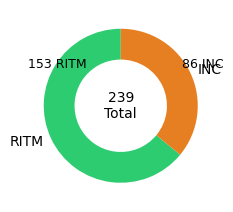
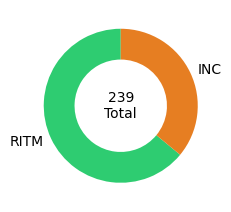
Refactor code structure for improved readability and maintainability

diff --git a/src/utils/visualization.py b/src/utils/visualization.py
@@ -19,37 +19,35 @@ def map_service_name(name):
     return mapping.get(name.upper(), name)
 
 def add_summary_slide(prs, data, overall):
+    prs.slide_width = Inches(13.33)
+    prs.slide_height = Inches(7.5)
     slide_layout = prs.slide_layouts[6]  # Blank slide
     slide = prs.slides.add_slide(slide_layout)
 
-    # Table section
-    rows = 11
-    cols = 4
-    left = Inches(0.3)
-    top = Inches(0.3)
-    width = Inches(6.2)
-    height = Inches(4.5)
+    # Table
+    table_left = Inches(5.65)
+    table_top = Inches(3.05)
+    table_width = Inches(7.47)
+    table_height = Inches(4.04)
+    table = slide.shapes.add_table(11, 4, table_left, table_top, table_width, table_height).table
 
-    table = slide.shapes.add_table(rows, cols, left, top, width, height).table
-    col_titles = ["Services", "Incidents", "Requests", "Total Tickets"]
-    for i, title in enumerate(col_titles):
-        table.cell(0, i).text = title
+    headers = ["Services", "Incidents", "Requests", "Total Tickets"]
+    for i, h in enumerate(headers):
+        table.cell(0, i).text = h
         table.cell(0, i).text_frame.paragraphs[0].font.bold = True
 
-    services_order = ["SIP", "FLOW", "AUTO", "AD", "IW", "CF", "MVM", "HV", "IFS"]
+    order = ["SIP", "FLOW", "AUTO", "AD", "IW", "CF", "MVM", "HV", "IFS"]
     total_inc = total_ritm = total_all = 0
 
-    for i, service in enumerate(services_order):
-        stats = data.get(service.upper(), {})
+    for i, s in enumerate(order):
+        stats = data.get(s.upper(), {})
         inc = stats.get("INC_count", 0)
         ritm = stats.get("RITM_count", 0)
-        total = stats.get("total_tickets", inc + ritm)
-
+        total = inc + ritm
         total_inc += inc
         total_ritm += ritm
         total_all += total
-
-        table.cell(i + 1, 0).text = map_service_name(service)
+        table.cell(i + 1, 0).text = map_service_name(s)
         table.cell(i + 1, 1).text = str(inc)
         table.cell(i + 1, 2).text = str(ritm)
         table.cell(i + 1, 3).text = str(total)
@@ -61,72 +59,53 @@ def add_summary_slide(prs, data, overall):
     for i in range(4):
         table.cell(10, i).text_frame.paragraphs[0].font.bold = True
 
-    # Donut chart - INC vs RITM
-    fig1, ax1 = plt.subplots(figsize=(2.5, 2.5))
-    wedges, texts = ax1.pie([total_ritm, total_inc], labels=['RITM', 'INC'], startangle=90,
-                             colors=['#2ecc71', '#e67e22'], wedgeprops={'width': 0.4})
-    plt.text(0, 0, f"{total_all}\nTotal", ha='center', va='center', fontsize=10)
-    plt.text(-1.2, 0.5, f"{total_ritm} RITM", fontsize=9)
-    plt.text(0.8, 0.5, f"{total_inc} INC", fontsize=9)
-    donut_path = Path("data/reports/donut_total.png")
-    plt.savefig(donut_path, bbox_inches='tight')
-    plt.close()
-    slide.shapes.add_picture(str(donut_path), Inches(7.2), Inches(0.3), height=Inches(2.8))
+    # Donuts and heatmaps
+    if Path("data/charts/urgency_heatmap_INC.png").exists():
+        slide.shapes.add_picture("data/charts/urgency_heatmap_INC.png", Inches(10.51), Inches(0.43), width=Inches(2.77), height=Inches(2.15))
 
-    # Urgency donut chart
-    urgency_counts = {}
-    for s in data.values():
-        for level, pct in s.get("urgency_distribution", {}).items():
-            urgency_counts[level] = urgency_counts.get(level, 0) + pct
+    if Path("data/charts/urgency_heatmap_RITM.png").exists():
+        slide.shapes.add_picture("data/charts/urgency_heatmap_RITM.png", Inches(5.44), Inches(0.48), width=Inches(2.64), height=Inches(2.05))
 
-    total_services = len(data)
-    if total_services:
-        urgency_pct = {k: round(v / total_services, 2) for k, v in urgency_counts.items()}
-        labels = [f"{k}\n{v:.1f}%" for k, v in urgency_pct.items()]
-        sizes = list(urgency_pct.values())
+    if Path("data/charts/donut_total.png").exists():
+        slide.shapes.add_picture("data/charts/donut_total.png", Inches(8.03), Inches(0.43), width=Inches(2.51), height=Inches(2.28))
 
-        fig2, ax2 = plt.subplots(figsize=(2.5, 2.5))
-        colors = ['#3498db', '#f1c40f', '#e74c3c', '#9b59b6']
-        ax2.pie(sizes, labels=labels, startangle=90, colors=colors, wedgeprops={'width': 0.4})
-        plt.title("Urgency Split", fontsize=10)
-        urgency_path = Path("data/reports/urgency_donut.png")
-        plt.savefig(urgency_path, bbox_inches='tight')
-        plt.close()
-        slide.shapes.add_picture(str(urgency_path), Inches(7.2), Inches(3.2), height=Inches(2.8))
-
-    # Keynotes area
-    left = Inches(0.3)
-    top = Inches(5.1)
-    width = Inches(6.2)
-    height = Inches(1.2)
-    textbox = slide.shapes.add_shape(MSO_SHAPE.RECTANGLE, left, top, width, height)
-    textbox.fill.solid()
-    textbox.fill.fore_color.rgb = RGBColor(255, 165, 0)  # Orange
-    textbox.text = "Weekly Keynotes (to be filled manually)"
-    textbox.text_frame.paragraphs[0].font.size = Pt(14)
-    textbox.text_frame.paragraphs[0].font.bold = True
+    # Weekly keynotes
+    keynotes_box = slide.shapes.add_shape(MSO_SHAPE.RECTANGLE, Inches(0.76), Inches(2.68), Inches(4.03), Inches(3.75))
+    keynotes_box.fill.solid()
+    keynotes_box.fill.fore_color.rgb = RGBColor(255, 165, 0)
+    keynotes_box.text = "Weekly Keynotes (to be filled manually)"
+    keynotes_box.text_frame.paragraphs[0].font.size = Pt(14)
+    keynotes_box.text_frame.paragraphs[0].font.bold = True
 
 def add_insights_slide(prs, summary):
-    slide_layout = prs.slide_layouts[5]  # Title Only
-    slide = prs.slides.add_slide(slide_layout)
-    slide.shapes.title.text = "Key Weekly Insights"
+    slide = prs.slides.add_slide(prs.slide_layouts[6])
 
+    # Insights title
+    title_box = slide.shapes.add_textbox(Inches(0.5), Inches(0.3), Inches(12), Inches(1))
+    tf = title_box.text_frame
+    tf.text = "Key Weekly Insights"
+    tf.paragraphs[0].font.size = Pt(24)
+    tf.paragraphs[0].font.bold = True
+
+    # Insight list
     comparison = summary.get("comparison", {})
-    left = Inches(0.5)
-    top = Inches(1.5)
-    width = Inches(8.5)
-    height = Inches(5.5)
-
-    textbox = slide.shapes.add_textbox(left, top, width, height)
-    tf = textbox.text_frame
-    tf.word_wrap = True
-
-    for line in comparison.values():
-        p = tf.add_paragraph()
+    insights_box = slide.shapes.add_textbox(Inches(0.5), Inches(1.1), Inches(6), Inches(3.5))
+    insights_tf = insights_box.text_frame
+    insights_tf.word_wrap = True
+    for key, line in comparison.items():
+        p = insights_tf.add_paragraph()
         p.text = f"- {line}"
         p.font.size = Pt(14)
+    if insights_tf.paragraphs:
+        insights_tf.paragraphs[0].font.bold = True
 
-    tf.paragraphs[0].font.bold = True
+    # Volume chart
+    if Path("data/charts/volume_by_service.png").exists():
+        slide.shapes.add_picture("data/charts/volume_by_service.png", Inches(7), Inches(1.1), height=Inches(3.0))
+
+    # Monthly progress
+    if Path("data/charts/monthly_progress.png").exists():
+        slide.shapes.add_picture("data/charts/monthly_progress.png", Inches(0.5), Inches(4.7), height=Inches(2.5))
 
 def generate_ppt(json_path: str, output_dir: str):
     with open(json_path, 'r') as f:

diff --git a/src/utils/charts.py b/src/utils/charts.py
@@ -124,6 +124,33 @@ def generate_monthly_progress(csv_file, output_path):
     plt.close()
     print(f"✅ Monthly progress chart saved to {line_path}")
 
+def generate_total_donut(data, output_path):
+    total_inc = total_ritm = 0
+
+    for stats in data.values():
+        total_inc += stats.get("INC_count", 0)
+        total_ritm += stats.get("RITM_count", 0)
+
+    total_all = total_inc + total_ritm if (total_inc + total_ritm) else 1
+    inc_pct = round((total_inc / total_all) * 100, 1)
+    ritm_pct = round((total_ritm / total_all) * 100, 1)
+
+    labels = [f"RITM - {total_ritm} ({ritm_pct}%)", f"INC - {total_inc} ({inc_pct}%)"]
+    sizes = [total_ritm, total_inc]
+    colors = ['#2ecc71', '#e67e22']
+
+    fig, ax = plt.subplots(figsize=(3.5, 3.5))
+    wedges, texts = ax.pie(sizes, labels=labels, startangle=90,
+                           colors=colors, wedgeprops={'width': 0.4})
+
+    plt.text(0, 0, f"{total_all}\nTotal", ha='center', va='center', fontsize=12, weight='bold')
+    plt.title("Total Tickets: INC vs RITM", fontsize=10)
+    
+    donut_path = output_path / "donut_total.png"
+    plt.savefig(donut_path, bbox_inches='tight')
+    plt.close()
+    print(f"✅ Donut chart saved to {donut_path}")
+
 def generate_charts(json_path: str, output_dir: str, csv_path: str):
     output_path = Path(output_dir)
     output_path.mkdir(parents=True, exist_ok=True)
@@ -133,6 +160,7 @@ def generate_charts(json_path: str, output_dir: str, csv_path: str):
     generate_volume_bar_chart(data, output_path)
     generate_urgency_heatmap(data, output_path)
     generate_monthly_progress(csv_path, output_path)
+    generate_total_donut(data, output_path)
 
 if __name__ == "__main__":
     parser = argparse.ArgumentParser(description="Generate advanced service charts")
